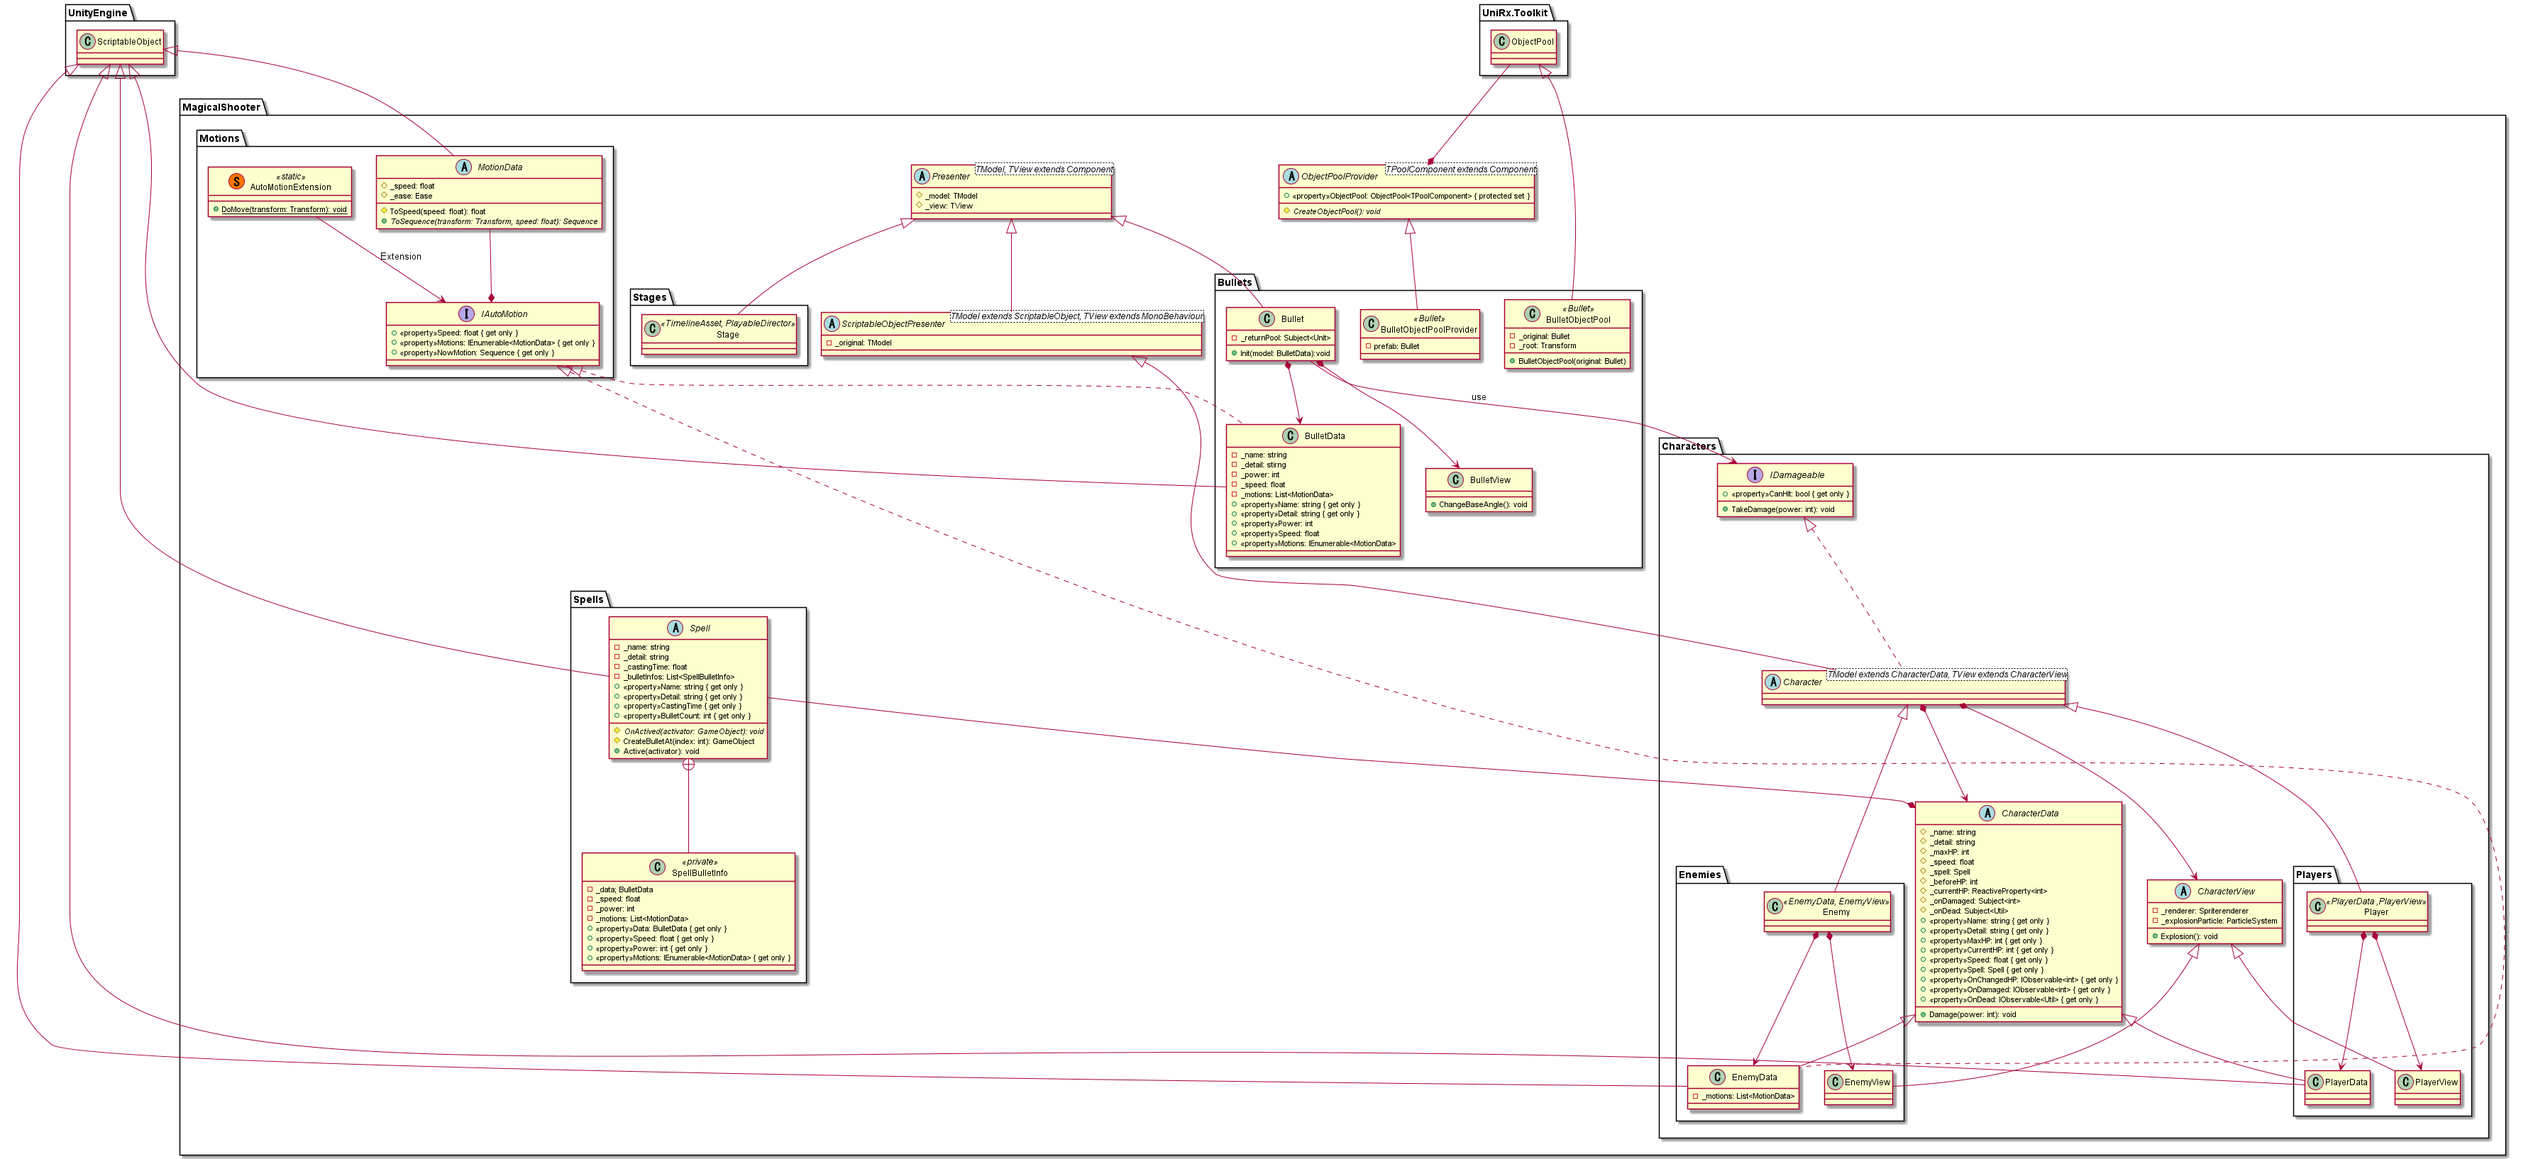
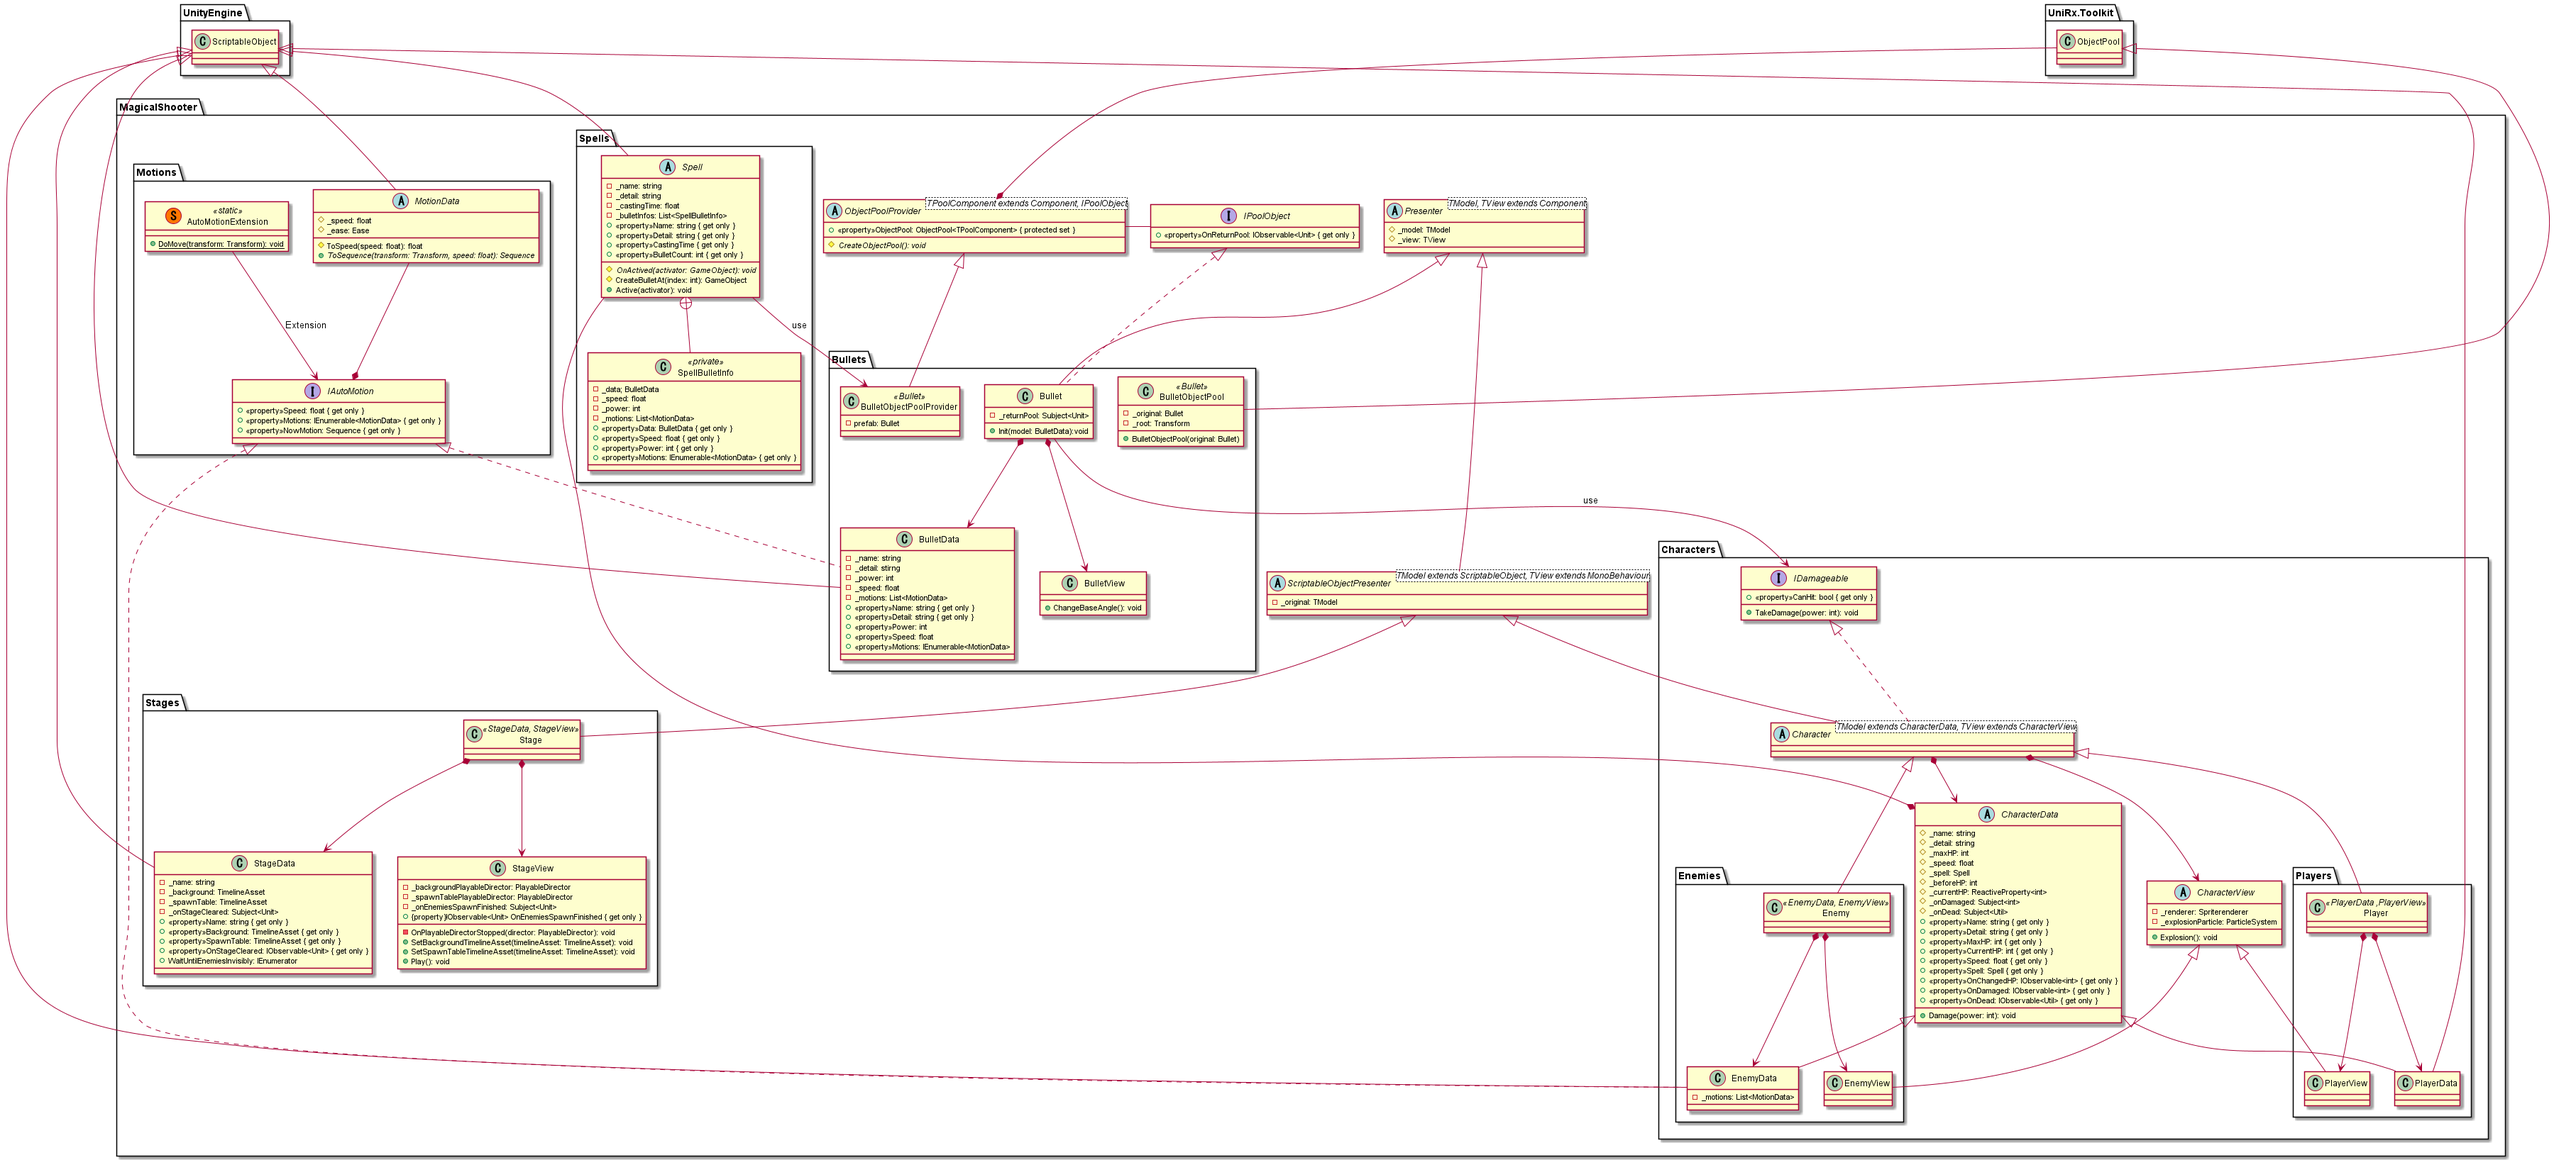
create stage clear event

diff --git a/Assets/Project/Scripts/Stages/StageView.cs b/Assets/Project/Scripts/Stages/StageView.cs
@@ -1,0 +1,53 @@
+using System;
+using UnityEngine;
+using UnityEngine.Playables;
+using UnityEngine.Timeline;
+using UniRx;
+
+namespace MagicalShooter.Stages
+{
+    public class StageView : MonoBehaviour
+    {
+        [SerializeField]
+        private PlayableDirector _backgroundPlayableDirector;
+        [SerializeField]
+        private PlayableDirector _spawnTablePlayableDirector;
+        private Subject<Unit> _onEnemiesSpawnFinished = new Subject<Unit>();
+
+        public IObservable<Unit> OnEnemiesSpawnFinished { get { return _onEnemiesSpawnFinished; } }
+
+        private void OnEnable()
+        {
+            _spawnTablePlayableDirector.stopped += OnPlayableDirectorStopped;
+        }
+
+        private void OnDisable()
+        {
+            _spawnTablePlayableDirector.stopped -= OnPlayableDirectorStopped;
+        }
+
+        private void OnPlayableDirectorStopped(PlayableDirector director)
+        {
+            if (director.playableAsset.duration <= director.duration)
+            {
+                _onEnemiesSpawnFinished.OnNext(Unit.Default);
+            }
+        }
+
+        public void SetBackgjroundTimelineAsset(TimelineAsset timelineAsset)
+        {
+            _backgroundPlayableDirector.playableAsset = timelineAsset;
+        }
+
+        public void SetSpawnTableTimelineAsset(TimelineAsset timelineAsset)
+        {
+            _spawnTablePlayableDirector.playableAsset = timelineAsset;
+        }
+
+        public void Play()
+        {
+            _backgroundPlayableDirector.Play();
+            _spawnTablePlayableDirector.Play();
+        }
+    }
+}

diff --git a/Assets/Project/Scripts/Stages/StageData.cs b/Assets/Project/Scripts/Stages/StageData.cs
@@ -1,0 +1,34 @@
+using System;
+using System.Collections;
+using UnityEngine;
+using UnityEngine.Playables;
+using UnityEngine.Timeline;
+using UniRx;
+using UniRx.Triggers;
+
+namespace MagicalShooter.Stages
+{
+    [CreateAssetMenu(fileName = "StageData", menuName = "MagicalShooter/StageData", order = 0)]
+    public class StageData : ScriptableObject
+    {
+        [SerializeField]
+        private string _name;
+        [SerializeField]
+        private TimelineAsset _background;
+        [SerializeField]
+        private TimelineAsset _spawnTable;
+        private Subject<Unit> _onStageCleared = new Subject<Unit>();
+
+        public string Name { get { return _name; } }
+        public TimelineAsset Background { get { return _background; } }
+        public TimelineAsset SpawnTable { get { return _spawnTable; } }
+        public IObservable<Unit> OnStageCleared { get { return _onStageCleared; } }
+
+        public IEnumerator WaitUntilEnemiesInvisibly()
+        {
+            yield return new WaitUntil(() =>
+                GameObject.FindGameObjectsWithTag("Enemy").Length == 0);
+            _onStageCleared.OnNext(Unit.Default);
+        }
+    }
+}

diff --git a/Assets/Project/Scripts/Stages/Stage.cs b/Assets/Project/Scripts/Stages/Stage.cs
@@ -1,3 +1,4 @@
+using System;
 using UnityEngine;
 using UnityEngine.Playables;
 using UnityEngine.Timeline;
@@ -5,14 +6,22 @@ using UniRx;
 
 namespace MagicalShooter.Stages
 {
-    public class Stage : Presenter<TimelineAsset, PlayableDirector>
+    public class Stage : ScriptableObjectPresenter<StageData, StageView>
     {
-        [SerializeField]
-        private TimelineAsset _pattan;
-
         private void Start()
         {
-            _view.playableAsset = _pattan;
+            _view.OnEnemiesSpawnFinished
+                .Subscribe(_ =>
+                {
+                    StartCoroutine(_model.WaitUntilEnemiesInvisibly());
+                });
+            _model.OnStageCleared
+                .Subscribe(_ =>
+                {
+                    Debug.Log("o");
+                });
+            _view.SetBackgjroundTimelineAsset(_model.Background);
+            _view.SetSpawnTableTimelineAsset(_model.SpawnTable);
             _view.Play();
         }
     }
